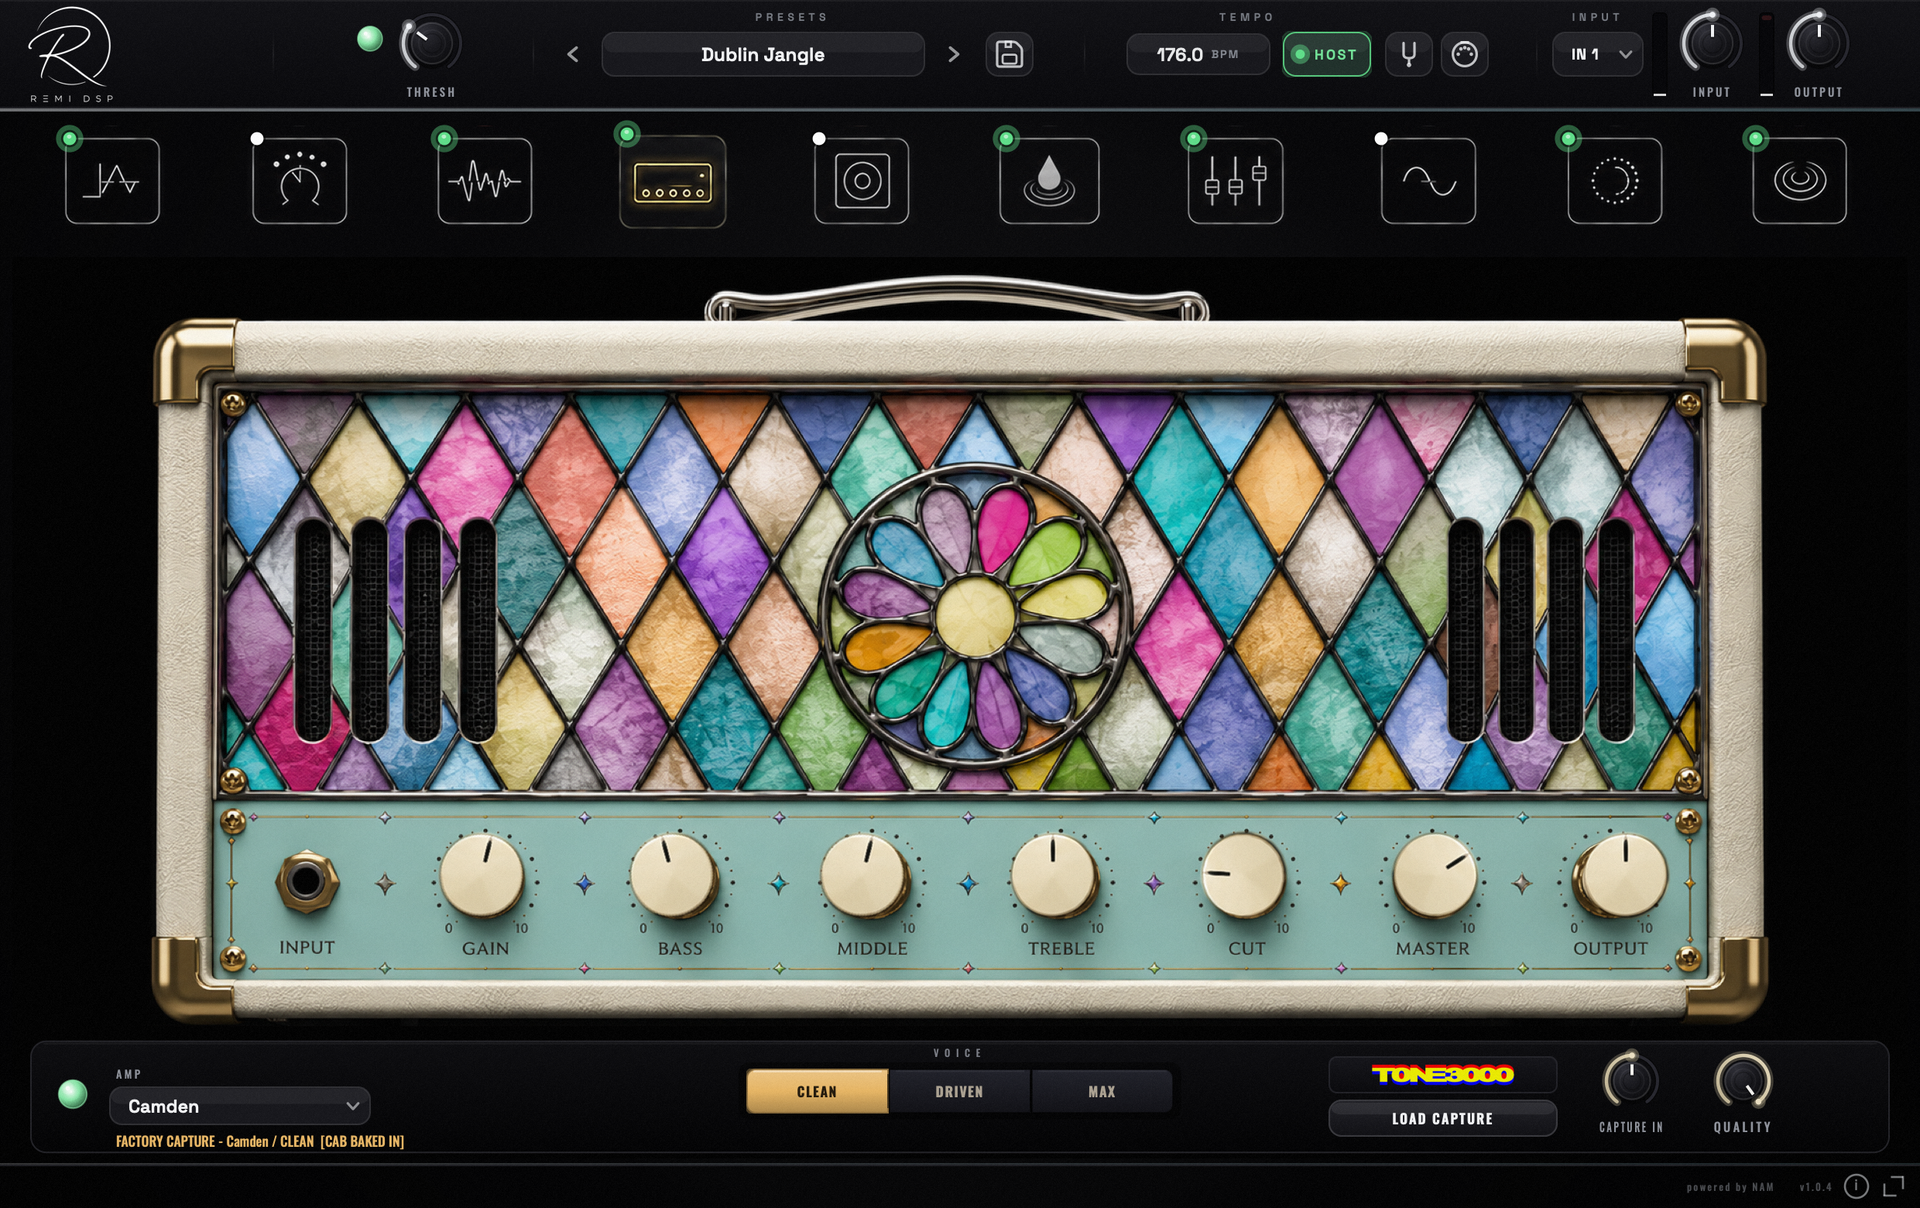
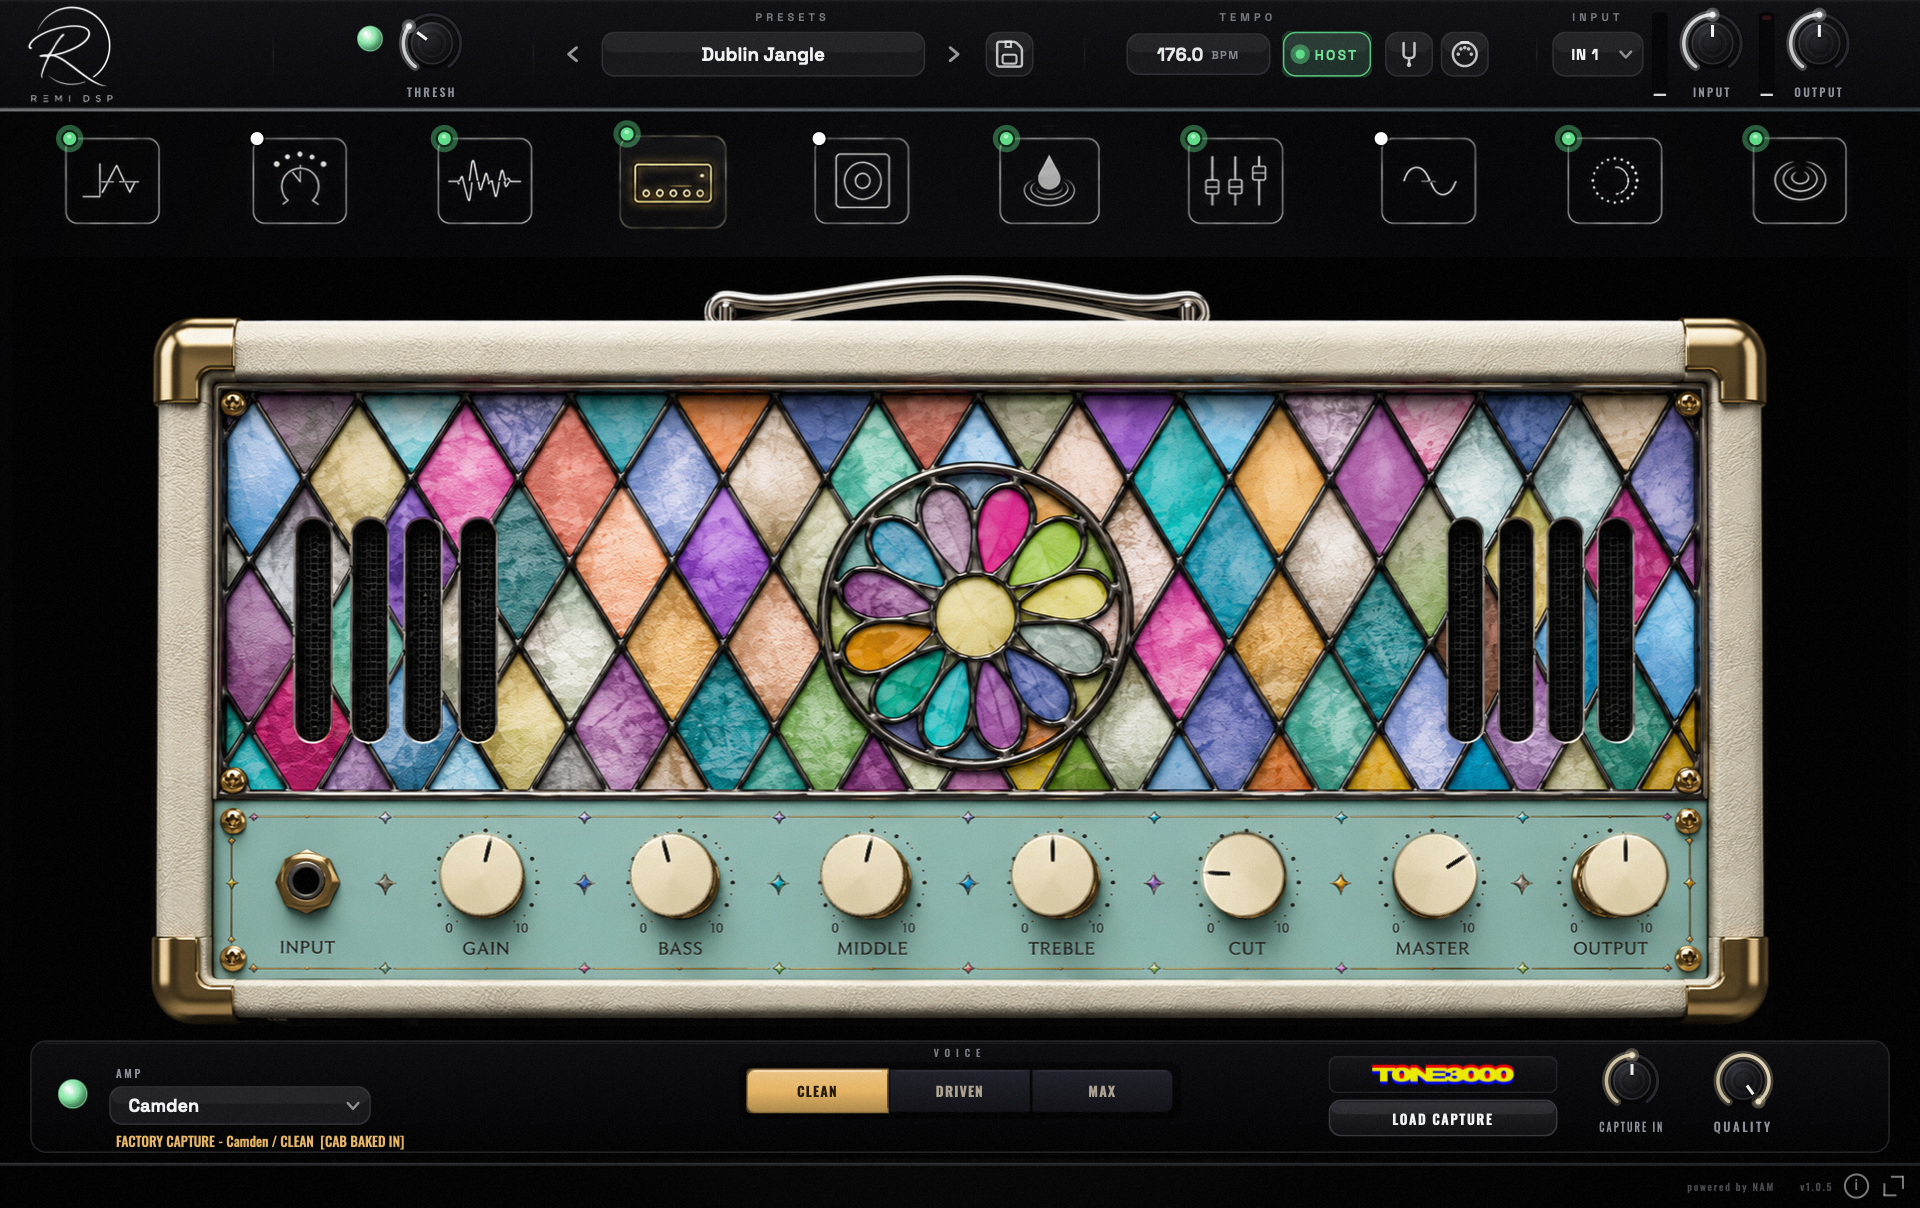
Captures gets the official TONE3000 wordmark; LED tallies retired; fresh 1.0.5 window shots
- Creed and live-rig LED counter strips removed — the copy carries the claim
- Powered-by lockup in Captures: official TONE3000 wordmark from the
  plugin's logo pack, linking home per their API attribution terms
- Captures / amp-hero / studio re-rendered from the shipping 1.0.5 build
  via ShotTest (studio was still the July faceplate); dist refreshed

Changed region(s): [[0.75, 0.8882, 0.7812, 0.9495], [0.0625, 0.8882, 0.0938, 0.9495], [0.1562, 0.9189, 0.1875, 0.9495]]

diff --git a/dist/index.html b/dist/index.html
@@ -232,14 +232,6 @@
   <p class="creed__sub" data-reveal style="--d:.14s">No iLok. No per-amp upsell. No trial timer counting down in the corner.
      Download it, plug in, keep it — every amp, every pedal, every format.
      And if you can't install today, <a href="#live">the same rig plays live in your browser</a>.</p>
-  <ul class="creed__stats" data-reveal style="--d:.2s">
-    <li><span class="led">3</span><i>AMPS</i></li>
-    <li><span class="led">6</span><i>VOICES</i></li>
-    <li><span class="led">7</span><i>CAPTURES</i></li>
-    <li><span class="led">10</span><i>MODULES</i></li>
-    <li><span class="led">0</span><i>ACCOUNTS</i></li>
-    <li><span class="led">0</span><i>DOLLARS</i></li>
-  </ul>
 </section>
 
 <!-- ░░ THE FILM — Maine in motion ░░
@@ -310,6 +302,14 @@
     <li><span class="led">1</span><i>CLICK TO LOAD</i></li>
     <li><span class="led">0</span><i>FILE CONVERSION</i></li>
   </ul>
+
+  <!-- The official wordmark, straight from TONE3000's logo pack — never
+       re-typeset. Attribution, not endorsement: "Powered by" is the exact
+       phrase their API terms ask for, and the mark links home. -->
+  <a class="captures__t3k" href="https://www.tone3000.com" target="_blank" rel="noopener" data-reveal>
+    <span class="mono">POWERED&nbsp;BY</span>
+    <img src="assets/img/tone3000-logo.png" alt="TONE3000" width="1050" height="160" loading="lazy">
+  </a>
 
   <p class="captures__fine" data-reveal>
     Capture playback is built on <a href="https://github.com/sdatkinson/NeuralAmpModelerCore" target="_blank" rel="noopener">Neural&nbsp;Amp&nbsp;Modeler</a>&nbsp;(MIT).
@@ -755,13 +755,6 @@
       </div>
     </div>
   </div>
-
-  <ul class="live__tally" data-reveal>
-    <li><span class="led">0</span><i>INSTALLS</i></li>
-    <li><span class="led">0</span><i>ACCOUNTS</i></li>
-    <li><span class="led">1</span><i>BROWSER TAB</i></li>
-    <li><span class="led">3</span><i>AMPS LIVE</i></li>
-  </ul>
 
 </section>
 

diff --git a/index.html b/index.html
@@ -232,14 +232,6 @@
   <p class="creed__sub" data-reveal style="--d:.14s">No iLok. No per-amp upsell. No trial timer counting down in the corner.
      Download it, plug in, keep it — every amp, every pedal, every format.
      And if you can't install today, <a href="#live">the same rig plays live in your browser</a>.</p>
-  <ul class="creed__stats" data-reveal style="--d:.2s">
-    <li><span class="led">3</span><i>AMPS</i></li>
-    <li><span class="led">6</span><i>VOICES</i></li>
-    <li><span class="led">7</span><i>CAPTURES</i></li>
-    <li><span class="led">10</span><i>MODULES</i></li>
-    <li><span class="led">0</span><i>ACCOUNTS</i></li>
-    <li><span class="led">0</span><i>DOLLARS</i></li>
-  </ul>
 </section>
 
 <!-- ░░ THE FILM — Maine in motion ░░
@@ -310,6 +302,14 @@
     <li><span class="led">1</span><i>CLICK TO LOAD</i></li>
     <li><span class="led">0</span><i>FILE CONVERSION</i></li>
   </ul>
+
+  <!-- The official wordmark, straight from TONE3000's logo pack — never
+       re-typeset. Attribution, not endorsement: "Powered by" is the exact
+       phrase their API terms ask for, and the mark links home. -->
+  <a class="captures__t3k" href="https://www.tone3000.com" target="_blank" rel="noopener" data-reveal>
+    <span class="mono">POWERED&nbsp;BY</span>
+    <img src="assets/img/tone3000-logo.png" alt="TONE3000" width="1050" height="160" loading="lazy">
+  </a>
 
   <p class="captures__fine" data-reveal>
     Capture playback is built on <a href="https://github.com/sdatkinson/NeuralAmpModelerCore" target="_blank" rel="noopener">Neural&nbsp;Amp&nbsp;Modeler</a>&nbsp;(MIT).
@@ -755,13 +755,6 @@
       </div>
     </div>
   </div>
-
-  <ul class="live__tally" data-reveal>
-    <li><span class="led">0</span><i>INSTALLS</i></li>
-    <li><span class="led">0</span><i>ACCOUNTS</i></li>
-    <li><span class="led">1</span><i>BROWSER TAB</i></li>
-    <li><span class="led">3</span><i>AMPS LIVE</i></li>
-  </ul>
 
 </section>
 

diff --git a/css/style.css b/css/style.css
@@ -581,6 +581,12 @@ em{font-style:normal;color:var(--gold-hi)}
   text-shadow:0 0 20px rgba(159,216,232,.7)}
 .captures__facts i{font-family:var(--font-mono);font-style:normal;font-size:.56rem;
   letter-spacing:.24em;color:var(--muted-2)}
+.captures__t3k{display:flex;align-items:center;justify-content:center;gap:.85rem;
+  width:fit-content;margin:clamp(1.7rem,3.2vw,2.4rem) auto 0;text-decoration:none;
+  transition:transform .3s}
+.captures__t3k:hover{transform:translateY(-2px)}
+.captures__t3k span{font-size:.6rem;letter-spacing:.22em;color:var(--muted-2)}
+.captures__t3k img{height:clamp(20px,2.2vw,26px);width:auto;display:block}
 .captures__fine{max-width:64ch;margin:clamp(1.3rem,2.8vw,2rem) auto 0;text-align:center;
   font-size:.78rem;line-height:1.75;color:var(--muted-2)}
 .captures__fine a{color:var(--muted);text-decoration:underline;text-underline-offset:3px;

diff --git a/dist/css/style.css b/dist/css/style.css
@@ -581,6 +581,12 @@ em{font-style:normal;color:var(--gold-hi)}
   text-shadow:0 0 20px rgba(159,216,232,.7)}
 .captures__facts i{font-family:var(--font-mono);font-style:normal;font-size:.56rem;
   letter-spacing:.24em;color:var(--muted-2)}
+.captures__t3k{display:flex;align-items:center;justify-content:center;gap:.85rem;
+  width:fit-content;margin:clamp(1.7rem,3.2vw,2.4rem) auto 0;text-decoration:none;
+  transition:transform .3s}
+.captures__t3k:hover{transform:translateY(-2px)}
+.captures__t3k span{font-size:.6rem;letter-spacing:.22em;color:var(--muted-2)}
+.captures__t3k img{height:clamp(20px,2.2vw,26px);width:auto;display:block}
 .captures__fine{max-width:64ch;margin:clamp(1.3rem,2.8vw,2rem) auto 0;text-align:center;
   font-size:.78rem;line-height:1.75;color:var(--muted-2)}
 .captures__fine a{color:var(--muted);text-decoration:underline;text-underline-offset:3px;
